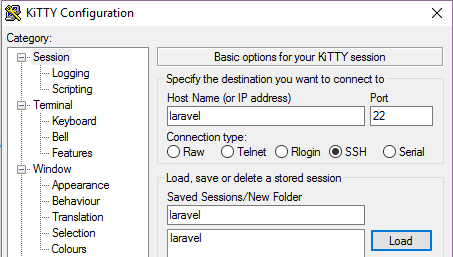
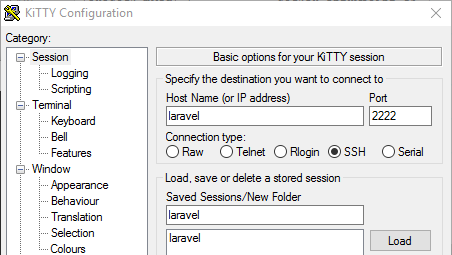
Initial commit

Changed region(s): [[0.0, 0.0, 1.0, 1.0]]

diff --git a/_guides/phpstorm.md b/_guides/phpstorm.md
@@ -127,7 +127,7 @@ laradock_nginx_1            nginx                         Up       0.0.0.0:443->
 laradock_php-fpm_1          php-fpm                       Up       9000/tcp
 laradock_volumes_data_1     true                          Exit 0
 laradock_volumes_source_1   true                          Exit 0
-laradock_workspace_1        /sbin/my_init                 Up       0.0.0.0:22->22/tcp
+laradock_workspace_1        /sbin/my_init                 Up       0.0.0.0:2222->22/tcp
 
 
 ```
